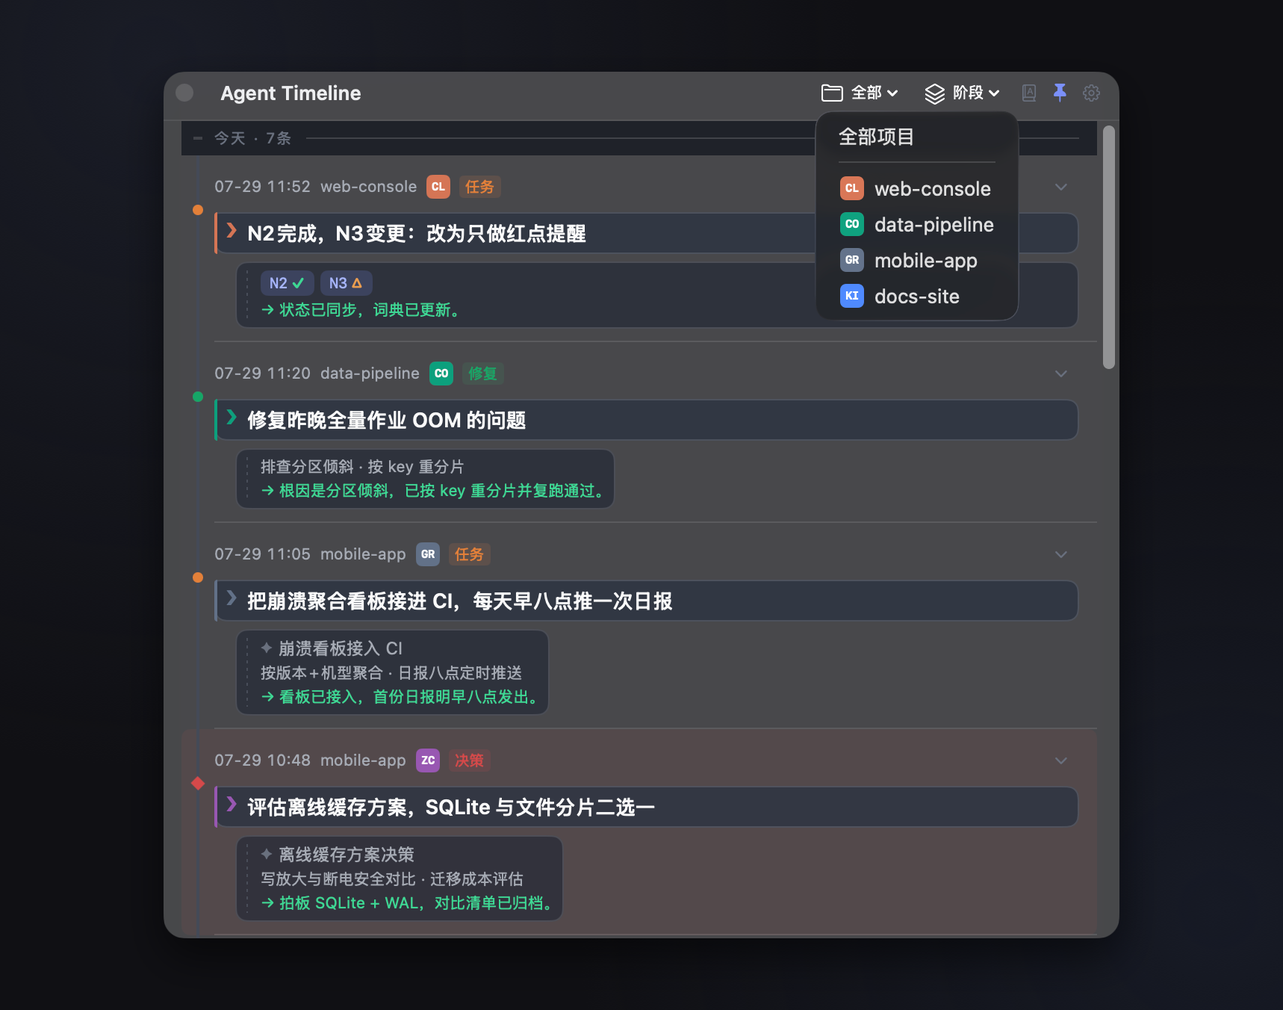
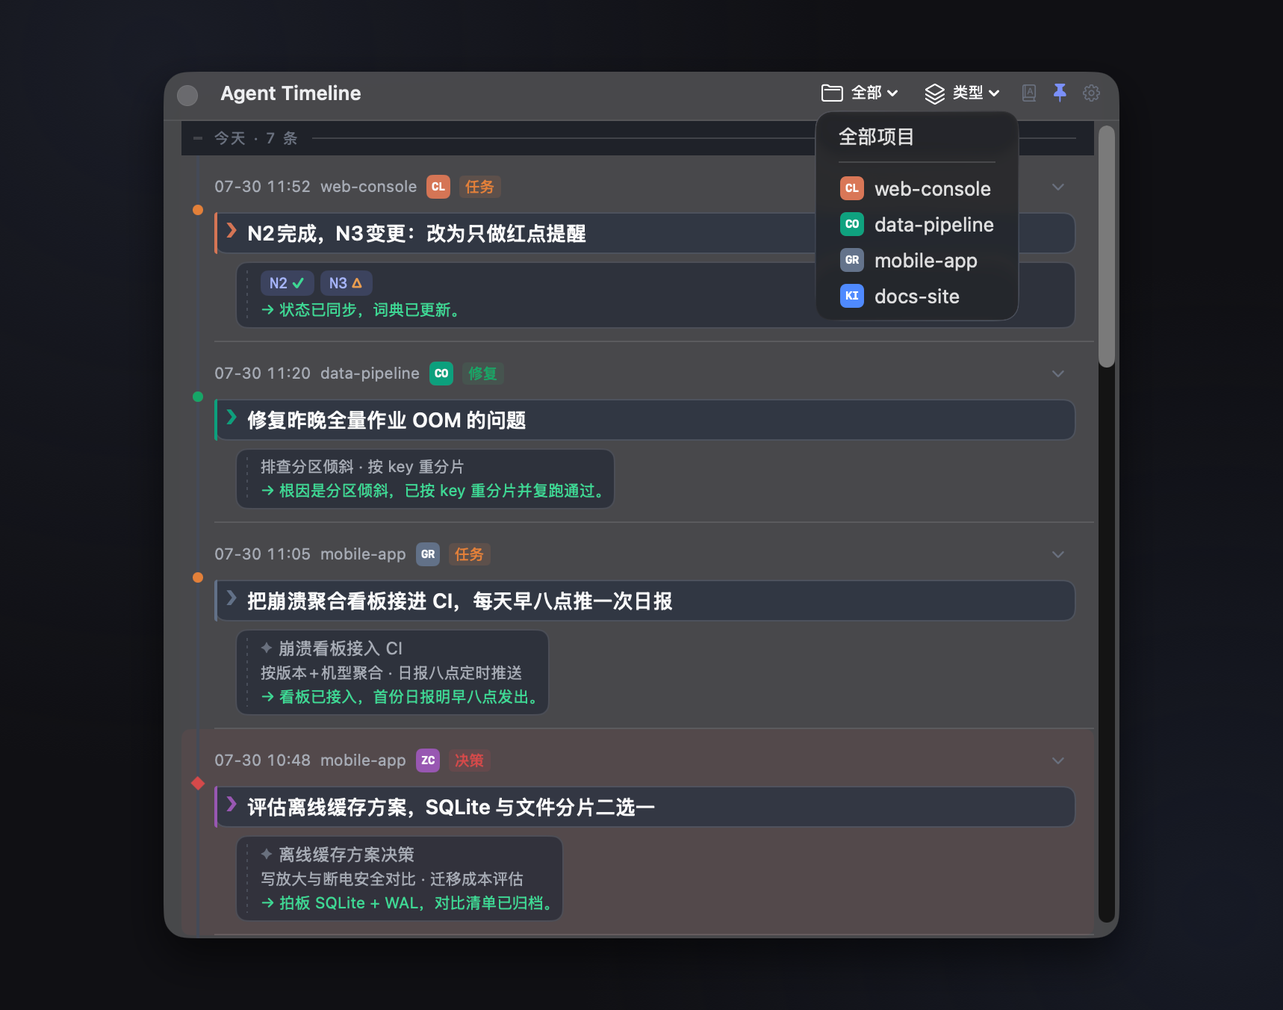
feat(macos): 按系统默认重拍中英两套一览图 + demo-seed 补 --lang
缩放之争由用户当场定案：**各端按自己系统的默认设置拍，不再互相强制**
（用户 2026-07-30 于 mac 会话原话「按照当前系统默认的设置 重拍」）。
mac = Retina 2x → 1718×1352；Windows = 该机 100% → 859×676，dip 几何与宽高比
两端相同，README 三列同宽仍对齐。windows/DEBUG-PLAYBOOK.md §3b 口径已同步更正，
Windows 侧无需再动图。

- macos/scripts/demo-seed.py 重构成 STRUCT/CONTENT/DEFS 三段，与 windows 那份同形状；
  补 --lang zh|en。**英文串是程序化从 windows 那份搬的、不是手抄**，两端英文图内容逐字
  一致。kind 与代号 status 仍是中文 rawValue（存储契约，翻了会让过滤与状态机失效）
- shoot-readme.sh 加 --language ZhHans|En，En 产出装到 *-en.png
- 中英各三张已重拍并安装；README.en.md 的 macOS 三列改指英文图
- 顺带修掉本轮引入的两处自己的坑：`$LANGUAGE，` 的全角逗号被吞进变量名（要加花括号）、
  `[ ... ] && VAR=` 在 set -e 下条件为假会终止脚本（同一类坑之前修过一轮，又犯了）

核对：第六关演示数据集校验通过；mac swift test 81 项（与 Windows 侧从源码数的一致，
两版 README 无需改正）。

Changed region(s): [[0.8329, 0.1243, 0.8946, 0.9009], [0.7404, 0.0621, 0.7712, 0.0932], [0.2159, 0.1243, 0.2468, 0.1553]]

diff --git a/macos/scripts/demo-seed.py b/macos/scripts/demo-seed.py
@@ -1,89 +1,181 @@
 # 演示数据灌注（README 截图专用）—— 数据集规范见 docs/DEMO-DATASET.md
-# 用法: python3 demo-seed.py <db路径>   （对全新空库执行；先由 app 启动一次建表，或本脚本自建）
+# 用法: python3 demo-seed.py <db路径> [--lang zh|en]   （对全新空库执行）
+#
+# 结构（STRUCT / CODES）与文案（CONTENT / DEFS）分离，且**结构与 windows/scripts/demo-seed.py
+# 逐字段相同**：两端 README 的中英四行要对齐，版面与折行就必须由同一套结构决定。
+# 英文文案是从 win 那份程序化搬过来的，不是手抄——两端英文图内容必须逐字一致。
+#
+# ⚠ kind 与代号 status 保持中文 rawValue：那是**存储契约**（nodes.kind / codenames.status），
+# 翻了会让 kind 过滤与代号状态机一起失效。显示层由 UiText 负责换语言。
+#
 # 针对 mac 端 schema（nodes TEXT 主键 / ts unix 秒 REAL / engine+summarized，无 summary_pending；
-# codenames 的 definition_node/status_node 为 TEXT）。内容与 windows/scripts/demo-seed.py 一致，
-# 差异仅 schema 适配：codenames JSON 的 definition 在 mac 端不可为 null（Swift CodenameDef 非可空），
-# 状态更新型条目写空串。
+# codenames 的 definition_node/status_node 为 TEXT，且 definition 不可为 null）。
 import sqlite3, json, datetime, sys
 
-DB = sys.argv[1]
+argv = sys.argv[1:]
+LANG = 'zh'
+if '--lang' in argv:
+    i = argv.index('--lang')
+    LANG = argv[i + 1]
+    del argv[i:i + 2]
+if LANG not in ('zh', 'en'):
+    raise SystemExit('--lang 只接受 zh 或 en')
+if not argv:
+    raise SystemExit('用法: demo-seed.py <db路径> [--lang zh|en]')
+DB = argv[0]
 TODAY = datetime.date.today()
+
 
 def ts(day_offset, hh, mm):
     d = TODAY + datetime.timedelta(days=day_offset)
     return datetime.datetime(d.year, d.month, d.day, hh, mm).astimezone().timestamp()
 
-def cn(*items):
-    return json.dumps(
-        [{"name": n, "definition": d or "", "status": s} for n, d, s in items],
-        ensure_ascii=False)
 
 def kp(*points):
     return json.dumps(list(points), ensure_ascii=False)
 
-# (agent, project, session, ts, text, title, key_points, codenames, result, kind)
-nodes = [
-    ("claude", "web-console", "wc-1", ts(-1,20,10),
-     "帮我规划登录模块改造，把需求整理编号",
-     "规划登录模块改造需求", kp("梳理登录/支付/消息三条线", "输出可执行需求清单"),
-     cn(("N1","登录页视觉改版","定义"), ("N2","支付流程重构","定义"), ("N3","消息中心优化","定义")),
-     "需求编号如下：N1 登录页视觉改版、N2 支付流程重构、N3 消息中心优化", "需求"),
-    ("claude", "web-console", "wc-1", ts(-1,21,3),
-     "按优先级拆任务：T1: 先做 N1 的页面骨架，T2: 打通 N2 的退款接口",
-     "按优先级拆解任务", kp("T1 页面骨架先行", "T2 退款接口打通"),
-     cn(("T1","先做 N1 的页面骨架","定义"), ("T2","打通 N2 的退款接口","定义")),
-     "任务已登记，开始执行 T1。", "任务"),
-    ("codex", "data-pipeline", "dp-1", ts(-1,18,40),
-     "调研一下 REQ-AUTH-3 需要的 OAuth 供应商，输出对比表",
-     "OAuth 供应商选型调研", kp("价格/合规/接入成本三维对比", "给出推荐结论"),
-     cn(("REQ-AUTH-3","第三方账号绑定","提及")),
-     "已完成 5 家供应商对比，推荐 Auth0 与自建方案二选一。", "调研"),
-    ("zcode", "mobile-app", "ma-1", ts(-1,16,5),
-     "排查启动闪退，收集崩溃栈并定位根因",
-     "排查冷启动闪退", kp("采集三台设备崩溃栈", "定位冷启动路径"),
-     "[]",
-     "NPE 在冷启动路径，已加空保护并回归通过。", "修复"),
-    ("kimi", "docs-site", "ds-1", ts(-1,15,30),
-     "讲解什么是 SSG 与 SSR 的取舍，给出我们文档站的建议",
-     "SSG vs SSR 取舍讲解", kp("构建时渲染与请求时渲染对比", "文档站选型建议"),
-     "[]",
-     "已输出对比笔记：文档站建议 SSG + 局部水合。", "学习"),
-    ("claude", "web-console", "wc-1", ts(0,10,24),
-     "T1 完成，接下去执行T2",
-     "", "[]",
-     cn(("T1",None,"完成"), ("T2",None,"进行中")),
-     "T2 已开始：退款接口联调中。", "任务"),
-    ("codex", "data-pipeline", "dp-1", ts(0,9,15),
-     "把清洗任务拆成增量模式，凌晨跑全量、白天跑增量",
-     "清洗任务改增量模式", kp("按分区键做增量水位", "全量窗口挪到凌晨"),
-     "[]",
-     "增量管道已上线，单轮耗时从 42min 降到 6min。", "任务"),
-    ("zcode", "mobile-app", "ma-1", ts(0,10,48),
-     "评估离线缓存方案，SQLite 与文件分片二选一",
-     "离线缓存方案决策", kp("写放大与断电安全对比", "迁移成本评估"),
-     "[]",
-     "拍板 SQLite + WAL，对比清单已归档。", "决策"),
-    ("kimi", "docs-site", "ds-1", ts(0,9,50),
-     "把 FAQ 迁移到新目录结构，保留旧链接跳转",
-     "FAQ 目录迁移", kp("28 篇批量迁移", "旧链接 301 跳转"),
-     "[]",
-     "迁移完成，跳转规则已配置。", "其他"),
-    ("codex", "data-pipeline", "dp-1", ts(0,11,20),
-     "修复昨晚全量作业 OOM 的问题",
-     "修复全量作业 OOM", kp("排查分区倾斜", "按 key 重分片"),
-     "[]",
-     "根因是分区倾斜，已按 key 重分片并复跑通过。", "修复"),
-    ("grok", "mobile-app", "ma-1", ts(0,11,5),
-     "把崩溃聚合看板接进 CI，每天早八点推一次日报",
-     "崩溃看板接入 CI", kp("按版本+机型聚合", "日报八点定时推送"),
-     "[]",
-     "看板已接入，首份日报明早八点发出。", "任务"),
-    ("claude", "web-console", "wc-1", ts(0,11,52),
-     "N2完成，N3变更：改为只做红点提醒",
-     "", "[]",
-     cn(("N2",None,"完成"), ("N3",None,"变更")),
-     "状态已同步，词典已更新。", "任务"),
+
+STRUCT = [
+    ("claude", "web-console",   "wc-1", ts(-1, 20, 10), "需求", [("N1", "定义"), ("N2", "定义"), ("N3", "定义")]),
+    ("claude", "web-console",   "wc-1", ts(-1, 21, 3),  "任务", [("T1", "定义"), ("T2", "定义")]),
+    ("codex",  "data-pipeline", "dp-1", ts(-1, 18, 40), "调研", [("REQ-AUTH-3", "提及")]),
+    ("zcode",  "mobile-app",    "ma-1", ts(-1, 16, 5),  "修复", []),
+    ("kimi",   "docs-site",     "ds-1", ts(-1, 15, 30), "学习", []),
+    ("claude", "web-console",   "wc-1", ts(0, 10, 24),  "任务", [("T1", "完成"), ("T2", "进行中")]),
+    ("codex",  "data-pipeline", "dp-1", ts(0, 9, 15),   "任务", []),
+    ("zcode",  "mobile-app",    "ma-1", ts(0, 10, 48),  "决策", []),
+    ("kimi",   "docs-site",     "ds-1", ts(0, 9, 50),   "其他", []),
+    ("codex",  "data-pipeline", "dp-1", ts(0, 11, 20),  "修复", []),
+    ("grok",   "mobile-app",    "ma-1", ts(0, 11, 5),   "任务", []),
+    ("claude", "web-console",   "wc-1", ts(0, 11, 52),  "任务", [("N2", "完成"), ("N3", "变更")]),
 ]
+
+# 每条只列随语言变化的部分：(命令原文, 标题, 关键点, 结果行)
+# 标题为空串 = 短命令，界面按规则隐去标题（#6 与 #12）。
+
+CONTENT = {
+    'zh': [
+        ("帮我规划登录模块改造，把需求整理编号",
+         "规划登录模块改造需求", ("梳理登录/支付/消息三条线", "输出可执行需求清单"),
+         "需求编号如下：N1 登录页视觉改版、N2 支付流程重构、N3 消息中心优化"),
+        ("按优先级拆任务：T1: 先做 N1 的页面骨架，T2: 打通 N2 的退款接口",
+         "按优先级拆解任务", ("T1 页面骨架先行", "T2 退款接口打通"),
+         "任务已登记，开始执行 T1。"),
+        ("调研一下 REQ-AUTH-3 需要的 OAuth 供应商，输出对比表",
+         "OAuth 供应商选型调研", ("价格/合规/接入成本三维对比", "给出推荐结论"),
+         "已完成 5 家供应商对比，推荐 Auth0 与自建方案二选一。"),
+        ("排查启动闪退，收集崩溃栈并定位根因",
+         "排查冷启动闪退", ("采集三台设备崩溃栈", "定位冷启动路径"),
+         "NPE 在冷启动路径，已加空保护并回归通过。"),
+        ("讲解什么是 SSG 与 SSR 的取舍，给出我们文档站的建议",
+         "SSG vs SSR 取舍讲解", ("构建时渲染与请求时渲染对比", "文档站选型建议"),
+         "已输出对比笔记：文档站建议 SSG + 局部水合。"),
+        ("T1 完成，接下去执行T2",
+         "", (),
+         "T2 已开始：退款接口联调中。"),
+        ("把清洗任务拆成增量模式，凌晨跑全量、白天跑增量",
+         "清洗任务改增量模式", ("按分区键做增量水位", "全量窗口挪到凌晨"),
+         "增量管道已上线，单轮耗时从 42min 降到 6min。"),
+        ("评估离线缓存方案，SQLite 与文件分片二选一",
+         "离线缓存方案决策", ("写放大与断电安全对比", "迁移成本评估"),
+         "拍板 SQLite + WAL，对比清单已归档。"),
+        ("把 FAQ 迁移到新目录结构，保留旧链接跳转",
+         "FAQ 目录迁移", ("28 篇批量迁移", "旧链接 301 跳转"),
+         "迁移完成，跳转规则已配置。"),
+        ("修复昨晚全量作业 OOM 的问题",
+         "修复全量作业 OOM", ("排查分区倾斜", "按 key 重分片"),
+         "根因是分区倾斜，已按 key 重分片并复跑通过。"),
+        ("把崩溃聚合看板接进 CI，每天早八点推一次日报",
+         "崩溃看板接入 CI", ("按版本+机型聚合", "日报八点定时推送"),
+         "看板已接入，首份日报明早八点发出。"),
+        ("N2完成，N3变更：改为只做红点提醒",
+         "", (),
+         "状态已同步，词典已更新。"),
+    ],
+    'en': [
+        ("Help me plan the login module rework and number the requirements",
+         "Plan the login module rework requirements",
+         ("Map out the login / payment / messaging tracks", "Produce an actionable requirement list"),
+         "Requirements numbered as follows: N1 login page redesign, N2 payment flow rework, N3 message centre cleanup"),
+        ("Break the tasks down by priority: T1: build the N1 page skeleton first, T2: wire up the N2 refund API",
+         "Break the tasks down by priority",
+         ("T1 page skeleton first", "T2 refund API wired up"),
+         "Tasks registered; starting on T1."),
+        ("Research the OAuth providers REQ-AUTH-3 needs and give me a comparison table",
+         "OAuth provider selection research",
+         ("Compare price / compliance / integration cost", "Land on a recommendation"),
+         "Compared five providers; recommend choosing between Auth0 and building in-house."),
+        ("Investigate the launch crash, collect the stack traces and find the root cause",
+         "Investigate the cold-start crash",
+         ("Collected stacks from three devices", "Traced it to the cold-start path"),
+         "An NPE on the cold-start path; null guard added and the regression passes."),
+        ("Explain the SSG vs SSR trade-off and recommend one for our docs site",
+         "SSG vs SSR trade-offs explained",
+         ("Build-time versus request-time rendering", "A recommendation for the docs site"),
+         "Comparison notes written up: SSG plus partial hydration for the docs site."),
+        ("T1 done, moving on to T2",
+         "", (),
+         "T2 started: refund API integration under way."),
+        ("Split the cleaning job into incremental mode: full run overnight, incremental by day",
+         "Cleaning job switched to incremental",
+         ("Incremental watermark by partition key", "Full-run window moved to the early hours"),
+         "Incremental pipeline shipped; one pass went from 42min down to 6min."),
+        ("Evaluate the offline cache options, SQLite or file sharding",
+         "Offline cache decision",
+         ("Write amplification versus power-loss safety", "Migration cost estimate"),
+         "Decided on SQLite + WAL; the comparison is archived."),
+        ("Migrate the FAQ to the new directory structure, keeping the old links redirecting",
+         "FAQ directory migration",
+         ("28 pages migrated in bulk", "301 redirects for the old links"),
+         "Migration done; redirect rules are configured."),
+        ("Fix last night's OOM in the full-run job",
+         "Fix the full-run job OOM",
+         ("Investigated partition skew", "Resharded by key"),
+         "Root cause was partition skew; resharded by key and the rerun passes."),
+        ("Wire the crash aggregation dashboard into CI and push a daily report at 8am",
+         "Crash dashboard wired into CI",
+         ("Aggregated by version and device", "Daily report scheduled for 8am"),
+         "Dashboard is wired in; the first report goes out at 8am tomorrow."),
+        ("N2 done, N3 changed: badge-only notifications from now on",
+         "", (),
+         "Status synced; the dictionary is up to date."),
+    ],
+}
+
+# 代号定义（随语言变化）。状态与归属节点在 STRUCT / CODES 里，不在这。
+
+DEFS = {
+    'zh': {
+        "N1": "登录页视觉改版", "N2": "支付流程重构", "N3": "消息中心优化",
+        "T1": "先做 N1 的页面骨架", "T2": "打通 N2 的退款接口",
+        "REQ-AUTH-3": "第三方账号绑定",
+    },
+    'en': {
+        "N1": "login page redesign", "N2": "payment flow rework", "N3": "message centre cleanup",
+        "T1": "build the N1 page skeleton first", "T2": "wire up the N2 refund API",
+        "REQ-AUTH-3": "third-party account linking",
+    },
+}
+
+# REQ-AUTH-3 的 lastContext 不是某条命令原文，单列；其余代号的 lastContext
+# 直接**派生自对应命令原文**（下面 CODES 里的 ctx_from），免得两处各写一份、翻译时漂掉。
+RESEARCH_CTX = {
+    'zh': "调研 OAuth 供应商对比",
+    'en': "OAuth provider comparison research",
+}
+
+CODES = [
+    ("N1",         0, ts(-1, 20, 10), 2, "定义",   None, None,           None),
+    ("N2",         0, ts(-1, 20, 10), 3, "完成",   11,   ts(0, 11, 52),  11),
+    ("N3",         0, ts(-1, 20, 10), 3, "变更",   11,   ts(0, 11, 52),  11),
+    ("T1",         1, ts(-1, 21, 3),  3, "完成",   5,    ts(0, 10, 24),  5),
+    ("T2",         1, ts(-1, 21, 3),  3, "进行中", 5,    ts(0, 10, 24),  5),
+    ("REQ-AUTH-3", 2, ts(-1, 18, 40), 2, "进行中", 2,    ts(-1, 18, 40), 'research'),
+]
+
+
+content = CONTENT[LANG]
+defs = DEFS[LANG]
 
 c = sqlite3.connect(DB)
 c.executescript("""
@@ -101,29 +193,34 @@ CREATE TABLE IF NOT EXISTS file_offsets (path TEXT PRIMARY KEY, offset INTEGER N
 """)
 
 ids = {}
-for i, (agent, proj, sess, t, text, title, kps, cns, result, kind) in enumerate(nodes):
-    nid = f"demo-{i:03d}"
+for i, (agent, proj, sess, t, kind, codes) in enumerate(STRUCT):
+    text, title, points, result = content[i]
+    nid = "demo-%03d" % i
     ids[i] = nid
+    # mac 的 CodenameDef.definition 非可空，状态更新型条目写空串（win 侧写 null）
+    codenames = json.dumps(
+        [{"name": n, "definition": (defs[n] if st == "定义" else ""), "status": st} for n, st in codes],
+        ensure_ascii=False)
     c.execute(
         "INSERT INTO nodes (id, agent, project, cwd, session_id, ts, text, source_file,"
         " title, key_points, codenames, result_line, engine, summarized, summary_attempts, kind)"
         " VALUES (?,?,?,NULL,?,?,?,?,?,?,?,?,'rule',1,3,?)",
-        (nid, agent, proj, sess, t, text, f"demo/{proj}.jsonl", title, kps, cns, result, kind))
+        (nid, agent, proj, sess, t, text, "demo/%s.jsonl" % proj,
+         title, kp(*points), codenames, result, kind))
 
-def code(name, definition, def_idx, first_ts, occ, status, status_idx, upd_ts, last_ctx):
+for name, def_idx, first_ts, occ, status, status_idx, upd_ts, ctx_from in CODES:
+    if ctx_from is None:
+        last_ctx = ""
+    elif isinstance(ctx_from, int):
+        last_ctx = content[ctx_from][0]
+    else:
+        last_ctx = content[2][0]      # 'research' → 调研那条命令
     c.execute(
         "INSERT INTO codenames (name, definition, definition_node, first_seen, occurrences,"
         " status, status_node, updated, last_context) VALUES (?,?,?,?,?,?,?,?,?)",
-        (name, definition, ids[def_idx], first_ts, occ, status,
+        (name, defs.get(name, ""), ids[def_idx], first_ts, occ, status,
          ids[status_idx if status_idx is not None else def_idx],
          upd_ts if upd_ts is not None else first_ts, last_ctx))
 
-code("N1", "登录页视觉改版", 0, ts(-1,20,10), 2, "定义", None, None, "")
-code("N2", "支付流程重构", 0, ts(-1,20,10), 3, "完成", 10, ts(0,11,52), "N2完成，N3变更：改为只做红点提醒")
-code("N3", "消息中心优化", 0, ts(-1,20,10), 3, "变更", 10, ts(0,11,52), "N2完成，N3变更：改为只做红点提醒")
-code("T1", "先做 N1 的页面骨架", 1, ts(-1,21,3), 3, "完成", 5, ts(0,10,24), "T1 完成，接下去执行T2")
-code("T2", "打通 N2 的退款接口", 1, ts(-1,21,3), 3, "进行中", 5, ts(0,10,24), "T1 完成，接下去执行T2")
-code("REQ-AUTH-3", "第三方账号绑定", 2, ts(-1,18,40), 2, "进行中", 2, ts(-1,18,40), "调研 OAuth 供应商对比")
-
 c.commit()
-print("demo nodes:", len(nodes), "codenames: 6")
+print("demo nodes: %d  codenames: %d  lang: %s" % (len(STRUCT), len(CODES), LANG))

diff --git a/macos/SYNC-KICKOFF-PROMPT.md b/macos/SYNC-KICKOFF-PROMPT.md
@@ -1,5 +1,42 @@
 # macOS 同步开工 Prompt（拍摄脚本数据安全 + 英文截图 + 双语文档轮 · 2026-07-30）
 
+> ## ✅ 本轮已完成（2026-07-30）
+>
+> - **A（最高优先）数据安全两个 bug 已修**（`b5836a7`）。你的判断成立——那套备份/还原
+>   范式是 mac 侧写的，两条全中。中断标记 `.shoot-in-progress`（动真实文件之前立）+
+>   开跑先查 + 三项全对才清 + 固定备份 `.shoot-backup` + `--recover`；`$swapped` 门。
+>   反证：种标记重跑精确拒绝、trap 之后备份之前注入失败「未进入交换阶段」，两次真实库
+>   md5/nodes 分毫未动；bug 2 的承重性用隔离目录复现（文件被删且拷不回）。
+>   动真实文件前先手工把库另存到脚本之外——你那条规矩照做了。
+>   顺带钉死演示语言（此前没钉，产出语言取决于拍摄机系统 UI 语言）。
+> - **C 英文截图 mac 半边**：`macos/scripts/demo-seed.py` 补 `--lang zh|en`，重构成
+>   `STRUCT`/`CONTENT`/`DEFS` 三段与你那份同形状，**英文串是程序化从你文件里搬的、不是
+>   手抄**；拍摄脚本加 `--language`，产出 `screenshot-macos-*-en.png`，`README.en.md`
+>   的 macOS 三列已改指英文图。
+> - **B 双语文档**：你让我核的 `swift test` 项数——**实跑是 81 项，与你数的一致**，
+>   两版 README 无需改正。`docs/` 不翻译、不新建 `macos/README.md` 都照办。
+>
+> ### 缩放之争已由用户当场定案，两端口径都已改
+>
+> 2026-07-30 用户在 mac 会话中的原话是：**「按照当前系统默认的设置 重拍」**。
+> 即：**各端按自己系统的默认设置拍，不再互相强制缩放**。
+> mac = Retina 2x → 1718×1352；Windows = 该机 100% → 859×676，
+> **dip 几何与宽高比两端相同**，README 三列同宽仍严丝合缝。
+>
+> `windows/DEBUG-PLAYBOOK.md` §3b 的「渲染缩放 1pt=2px（mac Retina / win 200%）」
+> 已改为「按拍摄机系统默认，脚本不改缩放」。你那边**无需再动图**，859×676 就是结论。
+>
+> 你上一轮提的第二条教训（转述用户答复要标明是转述）我接受，这段也照此写明了场合与原话。
+>
+> ### 一处仍待你定的共享层改动（我没擅自动）
+>
+> CI 第六关 `scripts/check-demo-dataset.py` 目前**只校验 `windows/scripts/demo-seed.py`**。
+> mac 那份现在也是中英两套，但不在门禁覆盖内——两端英文内容靠「程序化搬运」保证一致，
+> 一旦哪边手改就会无声漂移。**建议**把两套内容抽成共享模块（如 `scripts/demo_dataset.py`）
+> 由两端 seed 各自 import，门禁同时校验两端。这动的是共享层，按规则先报不做。
+>
+> 下面 `---` 之间是本轮的原始任务书，保留备查。
+
 > 用法：在 macOS 机器的仓库根目录启动 agent 会话，把下面 `---` 之间的整段粘贴为首条指令。
 >
 > 上一轮（四语接线追齐：`98f774f` 折叠层 / `282fcc6` 词表 / `ead9370` 接线）已完成并 push，

diff --git a/README.en.md b/README.en.md
@@ -84,7 +84,7 @@ Settings (three summary engines / opacity / per-agent toggles):
 
 | Dual-ink ledger · kind accents · codename badges | Project dropdown · most-recent-agent badges | Codename dictionary · a lifecycle at a glance |
 |:---:|:---:|:---:|
-| <img src="docs/assets/screenshot-macos-timeline.png" width="290" alt="macOS ledger timeline: five agents interleaved, kind accents, N2✓/N3△ status badges, diamond anchors for decisions" /> | <img src="docs/assets/screenshot-macos-projects.png" width="290" alt="Project dropdown with CL/CO/GR/KI source badges following the most recently active agent" /> | <img src="docs/assets/screenshot-macos-dictionary.png" width="290" alt="Codename dictionary: definitions, done/in-progress/changed states and provenance for N1/N2/N3/T1/T2/REQ-AUTH-3" /> |
+| <img src="docs/assets/screenshot-macos-timeline-en.png" width="290" alt="macOS ledger timeline: five agents interleaved, kind accents, N2✓/N3△ status badges, diamond anchors for decisions" /> | <img src="docs/assets/screenshot-macos-projects-en.png" width="290" alt="Project dropdown with CL/CO/GR/KI source badges following the most recently active agent" /> | <img src="docs/assets/screenshot-macos-dictionary-en.png" width="290" alt="Codename dictionary: definitions, done/in-progress/changed states and provenance for N1/N2/N3/T1/T2/REQ-AUTH-3" /> |
 
 Settings: [screenshot-macos-settings.png](docs/assets/screenshot-macos-settings.png).
 

diff --git a/windows/DEBUG-PLAYBOOK.md b/windows/DEBUG-PLAYBOOK.md
@@ -136,8 +136,8 @@ README「实机一览」当前 Windows 那三张仍是四家 agent 时期（v0.4
 | 项 | 值 | 为什么 |
 |---|---|---|
 | 面板尺寸 | **640 × 580 pt/dip** | 640 宽后命令原文不再被词典弹层截断；580 高使收尾正好落在卡片边界而非切半行 |
-| 渲染缩放 | **1 pt = 2 px**（mac Retina / win 200%） | 三张里字号、徽标、圆角尺寸才会一致 |
-| 合成画布 | **1718 × 1352 px**，内容居中 | 取三态并集（词典态最宽 1526px）+ 96px 四边留白 |
+| 渲染缩放 | **按拍摄机系统默认，脚本不改缩放** | 用户 2026-07-30 定：各端用自己系统的默认设置，不再互相强制。mac 为 Retina 2x、Windows 为该机 100%——**dip 几何与宽高比两端相同**，README 三列同宽时仍严丝合缝，只是像素密度不同 |
+| 合成画布 | 三态并集 + 96px 四边留白（按 dip 折算） | mac 得 **1718 × 1352**，Windows 100% 得 **859 × 676**。投影/圆角按画布宽折算，不写死像素 |
 | 背板 | `#101014` + 两处极淡径向光晕 | 与首图、社媒图同一套视觉 |
 | 投影 | offset (0, −26)、blur 60、黑 55% | |
 | README 显示宽度 | 三列同为 **290** | 同比例 + 同宽 = 高度自动齐平 |
